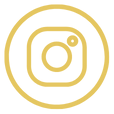
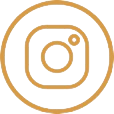
layout fixes, inst button

diff --git a/screens/LoginScreen.js b/screens/LoginScreen.js
@@ -1,5 +1,5 @@
 import React, {Component} from 'react';
-import { Dimensions, ImageBackground, Image, StyleSheet, Text, TextInput, View } from 'react-native';
+import { Dimensions, ImageBackground, Image, StyleSheet, Text, TextInput, View, Alert } from 'react-native';
 import { ScrollView, TouchableOpacity } from 'react-native-gesture-handler';
 import { SafeAreaView } from 'react-native-safe-area-context';
 import Api from '../components/Api';
@@ -39,7 +39,7 @@ export default class LoginScreen extends Component {
                 this.setState(state);
             },
             (error) => {
-                alert(error);
+                Alert.alert('Black Lion', error);
                 let state = this.state;
                 state.codeSent = false;
                 this.setState(state);
@@ -51,12 +51,12 @@ export default class LoginScreen extends Component {
         let api = new Api;
 
         if (this.state.userData.name == '') {
-            alert('Введите имя!');
+            Alert.alert('Black Lion', 'Введите имя!');
             return;
         }
         const regexp = /^(([^<>()[\]\\.,;:\s@"]+(\.[^<>()[\]\\.,;:\s@"]+)*)|(".+"))@((\[[0-9]{1,3}\.[0-9]{1,3}\.[0-9]{1,3}\.[0-9]{1,3}\])|(([a-zA-Z\-0-9]+\.)+[a-zA-Z]{2,}))$/;
         if (!regexp.test(String(this.state.userData.email).toLowerCase())) {
-            alert('Введите E-mail!');
+            Alert.alert('Black Lion', 'Введите E-mail!');
             return;
         }
 
@@ -68,7 +68,7 @@ export default class LoginScreen extends Component {
                 this.props.logIn(this.state.userData);
             },
             (error) => {
-                alert(error);
+                Alert.alert('Black Lion', error);
             }
         )
     }   

diff --git a/App.js b/App.js
@@ -1,9 +1,9 @@
 import { StatusBar } from "expo-status-bar";
 import React, { Component } from "react";
-import { AppState, StyleSheet, View, Image, Text } from "react-native";
+import { AppState, StyleSheet, View, Image, Text, ImageBackground } from "react-native";
 
 import { NavigationContainer } from "@react-navigation/native";
-import { createBottomTabNavigator } from "@react-navigation/bottom-tabs";
+import { BottomTabBar, createBottomTabNavigator } from "@react-navigation/bottom-tabs";
 import AsyncStorage from "@react-native-async-storage/async-storage";
 import SplashScreen from "react-native-splash-screen";
 
@@ -90,6 +90,7 @@ export default class App extends Component {
     if (this.state.state == "logedIn") {
       return (
         <View style={styles.container}>
+          <ImageBackground source={require('./assets/background.png')} style={mainStyle.styles.background}>
           <StatusBar style="light" />
           <NavigationContainer>
             <Tab.Navigator
@@ -98,10 +99,11 @@ export default class App extends Component {
                 tabBarShowLabel: false,
                 tabBarActiveTintColor: mainStyle.accentColor,
                 tabBarStyle: {
-                  backgroundColor: "rgb(25,25,27)",
+                  backgroundColor: "rgba(25,25,27,0)",
                   borderTopColor: "grey",
                   height: 90,
-                },
+                  position: 'absolute'
+                }
               }}
               initialRouteName="Home"
             >
@@ -154,6 +156,7 @@ export default class App extends Component {
               />
             </Tab.Navigator>
           </NavigationContainer>
+          </ImageBackground>
         </View>
       );
     }

diff --git a/screens/MainScreen.js b/screens/MainScreen.js
@@ -6,6 +6,8 @@ import mainStyle from '../styles/main';
 const logoRatio = 772/700;
 const m2Ratio = 216/200;
 
+import { BlurView } from 'expo-blur';
+
 const { width }  = Dimensions.get('window');
 
 export default function MainScreen({navigation}) {
@@ -50,6 +52,7 @@ export default function MainScreen({navigation}) {
             <Text style={[styles.h4, {marginBottom: 140}]}>
                 Пн-Чт с 13:00-17:00
             </Text>
+
         </ScrollView>
 
         <View style={styles.callButtonWrapper}>
@@ -60,12 +63,23 @@ export default function MainScreen({navigation}) {
                 />
             </TouchableOpacity>
         </View>
+        <View style={styles.instButtonWrapper}>
+            <TouchableOpacity onPress={() => {Linking.openURL(`https://instagram.com/blacklion.barbershop?utm_medium=copy_link`)}}>
+                <Image
+                    style={styles.callImg}
+                    source={require('../assets/inst.png')}
+                />
+            </TouchableOpacity>
+        </View>
 
         <View style={styles.buttonWrapper}>
             <TouchableOpacity style={styles.button} onPress={() => {navigation.navigate('Service')}}>
                 <Text style={styles.text}>Записаться</Text>
             </TouchableOpacity>
         </View>
+
+        
+        <View style={{height: 90}}/>
     </SafeAreaView>
     </ImageBackground>
 }
@@ -134,7 +148,7 @@ const styles = StyleSheet.create({
 
     buttonWrapper: {
         position: 'absolute',
-        bottom: 10,
+        bottom: 100,
         justifyContent: 'center',
         alignItems: 'center',
         width: '100%'

diff --git a/screens/FormScreen.js b/screens/FormScreen.js
@@ -1,5 +1,5 @@
 import React from "react";
-import { SafeAreaView, ImageBackground, StyleSheet, TextInput, Text, TouchableOpacity } from "react-native";
+import { SafeAreaView, ImageBackground, StyleSheet, TextInput, Text, TouchableOpacity, Alert } from "react-native";
 import Api from "../components/Api";
 import mainStyle from "../styles/main";
 
@@ -8,11 +8,11 @@ export default function FormScreen(props) {
         let api = new Api;
         api.record(props.route.params.service.id, props.route.params.staff.id, props.route.params.time, userData.phone, userData.name, userData.email, 
             (result) => {
-                alert('Вы записаны!');
+                Alert.alert('Black Lion', 'Вы записаны!');
                 props.navigation.popToTop();
             },
             (error) => {
-                alert(error);
+                Alert.alert('Black Lion', error);
             }
         );
     };

diff --git a/screens/DateScreen.js b/screens/DateScreen.js
@@ -67,6 +67,7 @@ class MainScreen extends React.Component {
         return <View>
             {datesList(this.props.dates, this.state.date, this.setDate)}
             <TimesScreen date={this.state.date} apiProps={this.props.apiProps} navigation={this.props.navigation}/>
+            
         </View>
     }
 }
@@ -141,7 +142,6 @@ class TimesScreen extends React.Component {
         apiProps.date = this.state.date;
         return <View>
             {(this.state.times == undefined)? loadingScreen(): timesList(this.state.times, this.props.navigation, apiProps)}
-
         </View>
     }
 }
@@ -217,7 +217,7 @@ const styles = StyleSheet.create({
     list: {
         marginLeft: 10,
         marginRight: 10,
-        height: windowHeight - 200
+        height: windowHeight - 205
     },
     itemWrapper: {
         marginTop: 10,

diff --git a/screens/HomeScreen.js b/screens/HomeScreen.js
@@ -14,7 +14,7 @@ export default function HomeScreen(props) {
 
     return <Stack.Navigator screenOptions={{
         headerStyle: {
-            backgroundColor: 'rgb(25,25,27)'
+            backgroundColor: 'rgba(25,25,27, 0)'
         }
     }}>
         <Stack.Screen name="Main" component={MainScreen} options={{ headerShown: false }} />
@@ -23,7 +23,7 @@ export default function HomeScreen(props) {
             headerTintColor: mainStyle.accentColor,
             headerBackTitle: '',
             headerTransparent: true,
-            navigation: props.navigation
+            navigation: props.navigation,
         }}/>
         <Stack.Screen name="Staff" component={StaffScreen} options={{ 
             title: 'Выберите мастера',

diff --git a/screens/InfoScreen.js b/screens/InfoScreen.js
@@ -69,6 +69,8 @@ export default class InfoScreen extends Component {
                 <Text style={styles.text}>Выйти из аккаунта</Text>
             </TouchableOpacity>
         </View>
+        
+        <View style={{height: 90}}/>
         </ImageBackground>
     }
 }
@@ -158,7 +160,7 @@ const styles = StyleSheet.create({
         fontSize: 18
     },
     list: {
-        marginTop: 20,
+        marginTop: 40,
         marginLeft: 10,
         marginRight: 10
     },
@@ -176,7 +178,7 @@ const styles = StyleSheet.create({
     
     buttonWrapper: {
         position: 'absolute',
-        bottom: 10,
+        bottom: 100,
         justifyContent: 'center',
         alignItems: 'center',
         width: '100%'

diff --git a/screens/ServiceScreen.js b/screens/ServiceScreen.js
@@ -58,6 +58,7 @@ export default class ServiceScreen extends React.Component {
 function loadingScreen() {
     return <View style={styles.loadingScreen}>
         <Text style={styles.loadingText}>Загрузка</Text>
+        <View style={{height: 90}}/>
     </View>
 }
 
@@ -80,6 +81,7 @@ function servicesScreen(services, navigation, pro, setPro) {
         renderItem={({item}) => serviceListItem(item, navigation)}
         keyExtractor={item => item.id.toString()}
         />
+        <View style={{height: 90}}/>
     </View>
 }
 

diff --git a/screens/StaffScreen.js b/screens/StaffScreen.js
@@ -34,6 +34,7 @@ export default class StaffScreen extends React.Component {
         return <ImageBackground source={require('../assets/background.png')} style={mainStyle.styles.background}>
         <SafeAreaView style={styles.container}>
             {(this.state.staff == undefined)? loadingScreen(): staffScreen(this.props.route.params.service, this.state.staff, this.props.navigation)}
+            <View style={{height: 90}}/>
         </SafeAreaView>
         </ImageBackground>
     }
